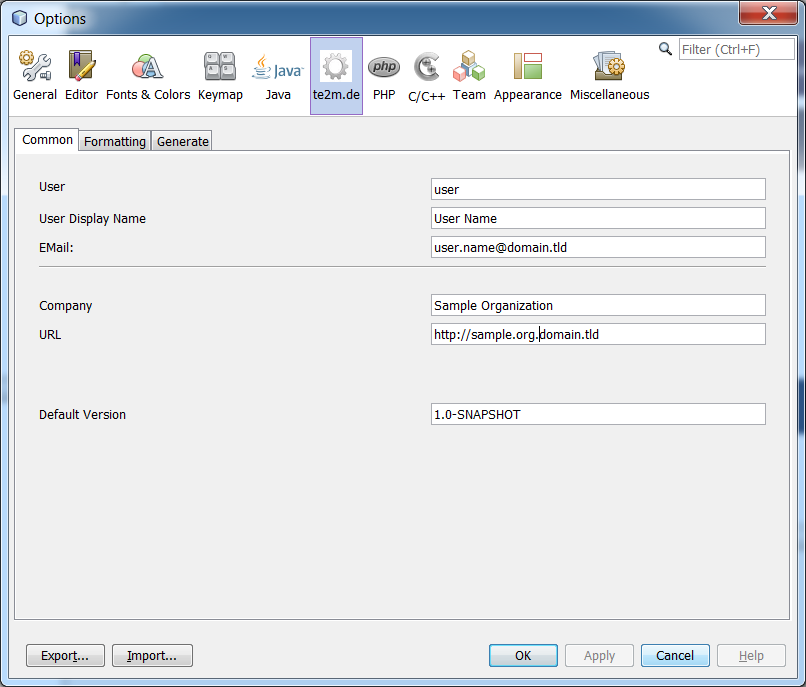
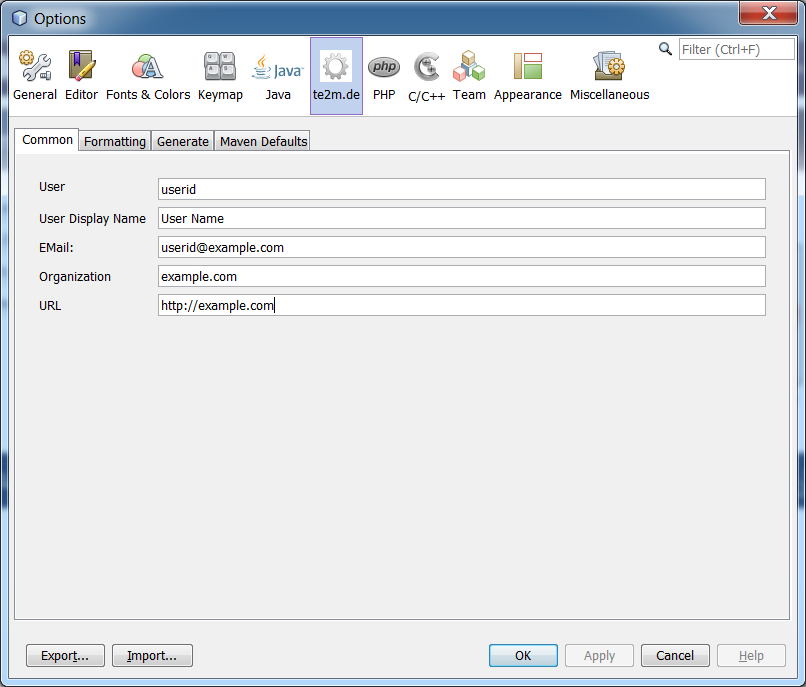
layout fro common options adjusted, image for readme (options) updated

diff --git a/de.te2m.tools.netbeans.vertx/src/main/java/de/te2m/tools/netbeans/vertx/options/CommonPanel.java b/de.te2m.tools.netbeans.vertx/src/main/java/de/te2m/tools/netbeans/vertx/options/CommonPanel.java
@@ -38,7 +38,6 @@ public final class CommonPanel extends javax.swing.JPanel {
     private javax.swing.JLabel jLabel2;
     private javax.swing.JLabel jLabel4;
     private javax.swing.JLabel jLabel5;
-    private javax.swing.JSeparator jSeparator1;
     private javax.swing.JLabel userDisplayNameLabel;
     private javax.swing.JTextField userDisplayNameTextField;
     private javax.swing.JTextField userEMailText;
@@ -72,7 +71,6 @@ public final class CommonPanel extends javax.swing.JPanel {
         userDisplayNameTextField = new javax.swing.JTextField();
         jLabel4 = new javax.swing.JLabel();
         userEMailText = new javax.swing.JTextField();
-        jSeparator1 = new javax.swing.JSeparator();
         jLabel5 = new javax.swing.JLabel();
         companyUrlTextField = new javax.swing.JTextField();
 
@@ -113,25 +111,18 @@ public final class CommonPanel extends javax.swing.JPanel {
             .addGroup(layout.createSequentialGroup()
                 .addContainerGap()
                 .addGroup(layout.createParallelGroup(javax.swing.GroupLayout.Alignment.LEADING)
-                    .addGroup(layout.createSequentialGroup()
-                        .addGroup(layout.createParallelGroup(javax.swing.GroupLayout.Alignment.LEADING)
-                            .addComponent(jLabel1, javax.swing.GroupLayout.PREFERRED_SIZE, 35, javax.swing.GroupLayout.PREFERRED_SIZE)
-                            .addComponent(jLabel4)
-                            .addComponent(userDisplayNameLabel))
-                        .addPreferredGap(javax.swing.LayoutStyle.ComponentPlacement.RELATED, 7, Short.MAX_VALUE)
-                        .addGroup(layout.createParallelGroup(javax.swing.GroupLayout.Alignment.LEADING, false)
-                            .addComponent(userDisplayNameTextField, javax.swing.GroupLayout.DEFAULT_SIZE, 335, Short.MAX_VALUE)
-                            .addComponent(userNameText, javax.swing.GroupLayout.Alignment.TRAILING)
-                            .addComponent(userEMailText)))
-                    .addComponent(jSeparator1)
-                    .addGroup(javax.swing.GroupLayout.Alignment.TRAILING, layout.createSequentialGroup()
-                        .addGroup(layout.createParallelGroup(javax.swing.GroupLayout.Alignment.LEADING)
-                            .addComponent(jLabel2)
-                            .addComponent(jLabel5))
-                        .addPreferredGap(javax.swing.LayoutStyle.ComponentPlacement.RELATED, javax.swing.GroupLayout.DEFAULT_SIZE, Short.MAX_VALUE)
-                        .addGroup(layout.createParallelGroup(javax.swing.GroupLayout.Alignment.LEADING, false)
-                            .addComponent(defaultCompanyNameText, javax.swing.GroupLayout.DEFAULT_SIZE, 335, Short.MAX_VALUE)
-                            .addComponent(companyUrlTextField))))
+                    .addComponent(jLabel1, javax.swing.GroupLayout.PREFERRED_SIZE, 35, javax.swing.GroupLayout.PREFERRED_SIZE)
+                    .addComponent(jLabel4)
+                    .addComponent(userDisplayNameLabel)
+                    .addComponent(jLabel2)
+                    .addComponent(jLabel5))
+                .addGap(12, 12, 12)
+                .addGroup(layout.createParallelGroup(javax.swing.GroupLayout.Alignment.LEADING)
+                    .addComponent(defaultCompanyNameText, javax.swing.GroupLayout.DEFAULT_SIZE, 337, Short.MAX_VALUE)
+                    .addComponent(userEMailText)
+                    .addComponent(userNameText, javax.swing.GroupLayout.Alignment.TRAILING)
+                    .addComponent(userDisplayNameTextField, javax.swing.GroupLayout.Alignment.TRAILING)
+                    .addComponent(companyUrlTextField))
                 .addContainerGap())
         );
         layout.setVerticalGroup(
@@ -149,17 +140,15 @@ public final class CommonPanel extends javax.swing.JPanel {
                 .addGroup(layout.createParallelGroup(javax.swing.GroupLayout.Alignment.BASELINE)
                     .addComponent(userEMailText, javax.swing.GroupLayout.PREFERRED_SIZE, javax.swing.GroupLayout.DEFAULT_SIZE, javax.swing.GroupLayout.PREFERRED_SIZE)
                     .addComponent(jLabel4))
-                .addGap(8, 8, 8)
-                .addComponent(jSeparator1, javax.swing.GroupLayout.PREFERRED_SIZE, 10, javax.swing.GroupLayout.PREFERRED_SIZE)
-                .addGap(18, 18, 18)
-                .addGroup(layout.createParallelGroup(javax.swing.GroupLayout.Alignment.BASELINE)
-                    .addComponent(jLabel2)
-                    .addComponent(defaultCompanyNameText, javax.swing.GroupLayout.PREFERRED_SIZE, javax.swing.GroupLayout.DEFAULT_SIZE, javax.swing.GroupLayout.PREFERRED_SIZE))
                 .addPreferredGap(javax.swing.LayoutStyle.ComponentPlacement.RELATED)
                 .addGroup(layout.createParallelGroup(javax.swing.GroupLayout.Alignment.BASELINE)
-                    .addComponent(jLabel5)
-                    .addComponent(companyUrlTextField, javax.swing.GroupLayout.PREFERRED_SIZE, javax.swing.GroupLayout.DEFAULT_SIZE, javax.swing.GroupLayout.PREFERRED_SIZE))
-                .addContainerGap(93, Short.MAX_VALUE))
+                    .addComponent(defaultCompanyNameText, javax.swing.GroupLayout.PREFERRED_SIZE, javax.swing.GroupLayout.DEFAULT_SIZE, javax.swing.GroupLayout.PREFERRED_SIZE)
+                    .addComponent(jLabel2))
+                .addPreferredGap(javax.swing.LayoutStyle.ComponentPlacement.RELATED)
+                .addGroup(layout.createParallelGroup(javax.swing.GroupLayout.Alignment.BASELINE)
+                    .addComponent(companyUrlTextField, javax.swing.GroupLayout.PREFERRED_SIZE, javax.swing.GroupLayout.DEFAULT_SIZE, javax.swing.GroupLayout.PREFERRED_SIZE)
+                    .addComponent(jLabel5))
+                .addContainerGap(122, Short.MAX_VALUE))
         );
     }// </editor-fold>//GEN-END:initComponents
 
